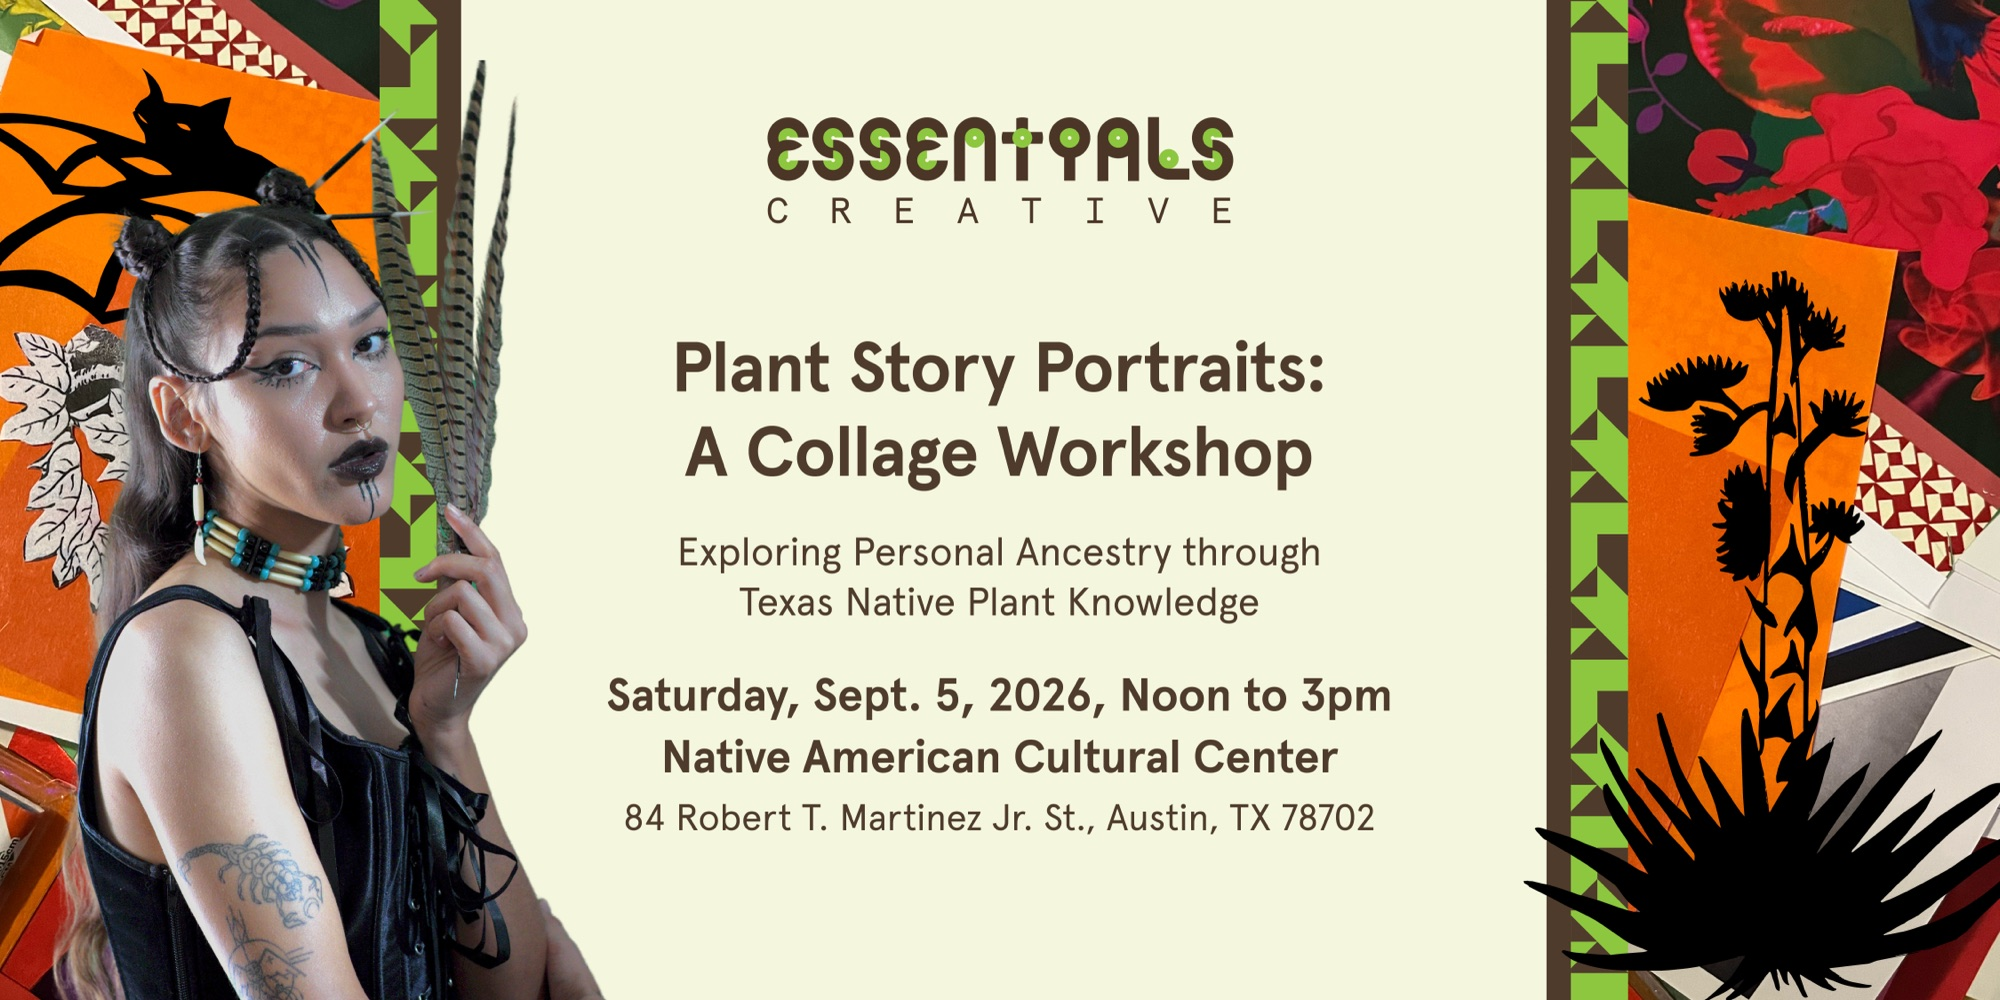
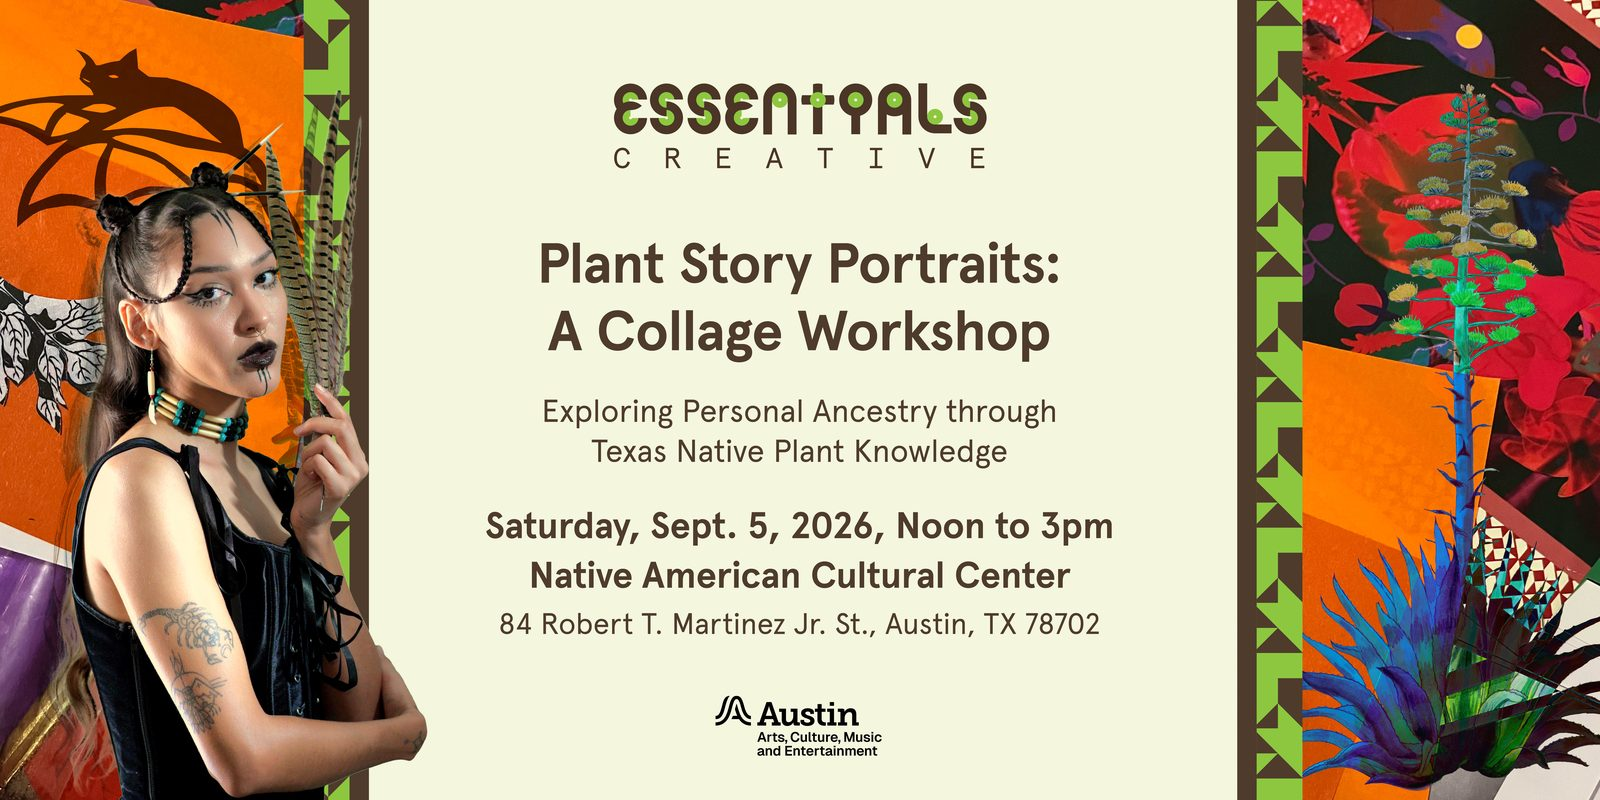
Plant Story Portraits: wire RSVP links, final flyer art, new hero
- Both RSVP buttons now point at the published Eventbrite listing
  (event 1997092439246) instead of href="#"
- Regenerate flyer art from the final versions: print (v33), banner (v3),
  story (v32), each with a webp sibling
- Add flyer-print-hires.jpg (2550x3300, 300dpi) and point the "download
  to print" link at it — it previously served the 150dpi web copy
- Add portraits-hero.jpg, cropped from the flyer artwork so the flyer's
  own headline doesn't collide with the page headline. New file rather
  than overwriting hero_image.jpg, which plant-story-cards.html shares
- Move hero text down and set focal point to center 32% so the subject's
  eyes read above the headline; padding uses clamp() so it scales on mobile
- Version-tag updated art so browsers and social scrapers don't serve
  the previous flyer from cache

diff --git a/plant-story-portraits.html b/plant-story-portraits.html
@@ -12,11 +12,11 @@
     <meta property="og:description" content="Free. Saturday, September 5, 2026, noon to 3pm at the Native American Cultural Center, Austin. How do we see ourselves in the plants around us?">
     <meta property="og:type" content="website">
     <meta property="og:url" content="https://essentialscreative.com/plant-story-portraits.html">
-    <meta property="og:image" content="https://essentialscreative.com/assets/images/plant-story/flyer-banner.jpg">
+    <meta property="og:image" content="https://essentialscreative.com/assets/images/plant-story/flyer-banner.jpg?v=20260809">
     <meta name="twitter:card" content="summary_large_image">
     <meta name="twitter:title" content="Plant Story Portraits: A Collage Workshop">
     <meta name="twitter:description" content="Free. Saturday, September 5, 2026, noon to 3pm at the Native American Cultural Center, Austin.">
-    <meta name="twitter:image" content="https://essentialscreative.com/assets/images/plant-story/flyer-banner.jpg">
+    <meta name="twitter:image" content="https://essentialscreative.com/assets/images/plant-story/flyer-banner.jpg?v=20260809">
 
     <link rel="canonical" href="https://essentialscreative.com/plant-story-portraits.html"/>
 
@@ -51,7 +51,7 @@
           "addressCountry": "US"
         }
       },
-      "image": "https://essentialscreative.com/assets/images/plant-story/flyer-banner.jpg",
+      "image": "https://essentialscreative.com/assets/images/plant-story/flyer-banner.jpg?v=20260809",
       "description": "A free afternoon of self-portraiture, collage, and plant knowledge. Participants leave with a printed portrait, a finished collage, and a completed Plant Story Card.",
       "organizer": {
         "@type": "Organization",
@@ -83,8 +83,8 @@
         .event-hero__bg {
             position: absolute;
             inset: 0;
-            background-image: url('assets/images/plant-story/hero_image.jpg');
-            background-position: center;
+            background-image: url('assets/images/plant-story/portraits-hero.jpg?v=20260809');
+            background-position: center 32%;
             background-size: cover;
             opacity: 0.55;
         }
@@ -92,7 +92,7 @@
             position: relative;
             z-index: 2;
             max-width: 820px;
-            padding: 4rem 1.5rem;
+            padding: clamp(5rem, 16vw, 13rem) 1.5rem 4rem;
         }
         .event-hero__eyebrow {
             text-transform: uppercase;
@@ -333,8 +333,7 @@
                 <h1>Plant Story Portraits: A Collage Workshop</h1>
                 <p class="event-hero__subtitle">Exploring Personal Ancestry through Texas Native Plant Knowledge</p>
                 <p class="event-hero__when">Saturday, September 5, 2026 &middot; Noon to 3pm<br>Native American Cultural Center, East Austin</p>
-                <!-- TODO: replace # with the Eventbrite URL once the listing is published -->
-                <a class="event-cta" href="#">RSVP on Eventbrite</a>
+                <a class="event-cta" href="https://www.eventbrite.com/e/plant-story-portraits-a-collage-workshop-tickets-1997092439246" target="_blank" rel="noopener">RSVP on Eventbrite</a>
                 <a class="event-cta event-cta--ghost" href="contact.html">Ask a question</a>
             </div>
         </section>
@@ -393,16 +392,15 @@
         <section class="event-section" style="text-align:center;">
             <h2>Save your spot</h2>
             <p>RSVP helps us plan materials and food. It isn't a gate &mdash; walk-ins are welcome until the room is full.</p>
-            <!-- TODO: replace # with the Eventbrite URL once the listing is published -->
-            <a class="event-cta" href="#" style="background:#1a1a1a; color:#fff;">RSVP on Eventbrite</a>
+            <a class="event-cta" href="https://www.eventbrite.com/e/plant-story-portraits-a-collage-workshop-tickets-1997092439246" target="_blank" rel="noopener" style="background:#1a1a1a; color:#fff;">RSVP on Eventbrite</a>
         </section>
 
         <!-- Flyer -->
         <section class="event-flyer">
-            <img src="assets/images/plant-story/flyer-print.jpg"
+            <img src="assets/images/plant-story/flyer-print.jpg?v=20260809"
                  alt="Plant Story Portraits flyer: a free collage workshop, Saturday September 5, 2026, noon to 3pm, at the Native American Cultural Center, 84 Robert T. Martinez Jr. St., Austin, TX 78702."
                  width="1275" height="1650" loading="lazy">
-            <p><a href="assets/images/plant-story/flyer-print.jpg" download>Download the flyer to print and share</a></p>
+            <p><a href="assets/images/plant-story/flyer-print-hires.jpg?v=20260809" download>Download the flyer to print and share</a></p>
         </section>
 
         <!-- Funder credit -->
